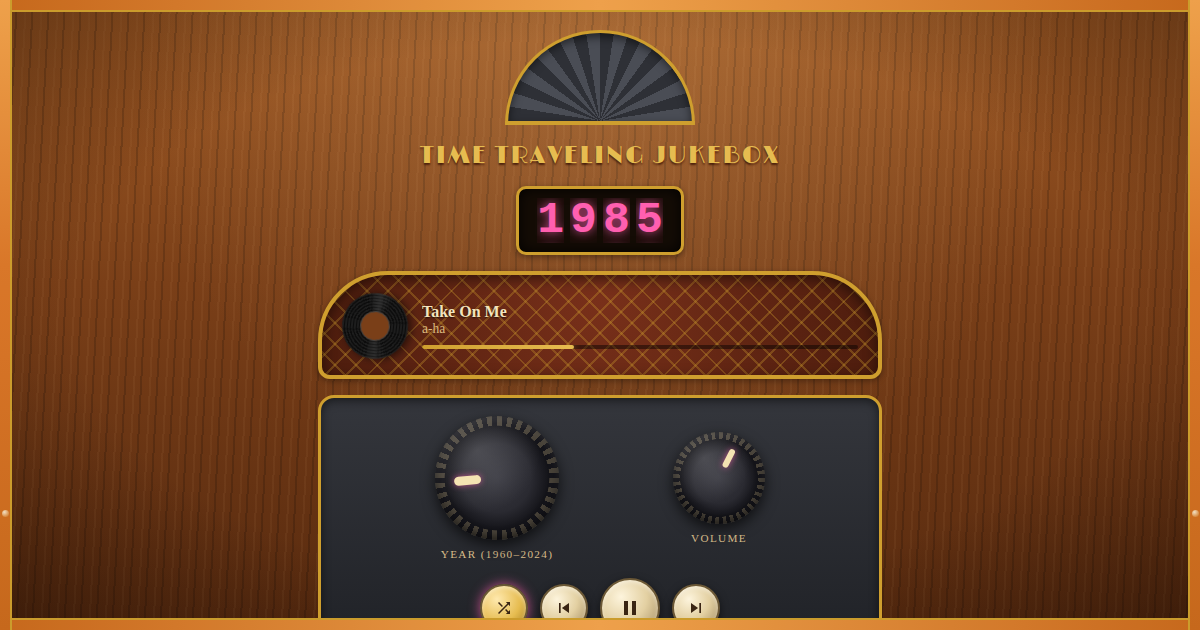
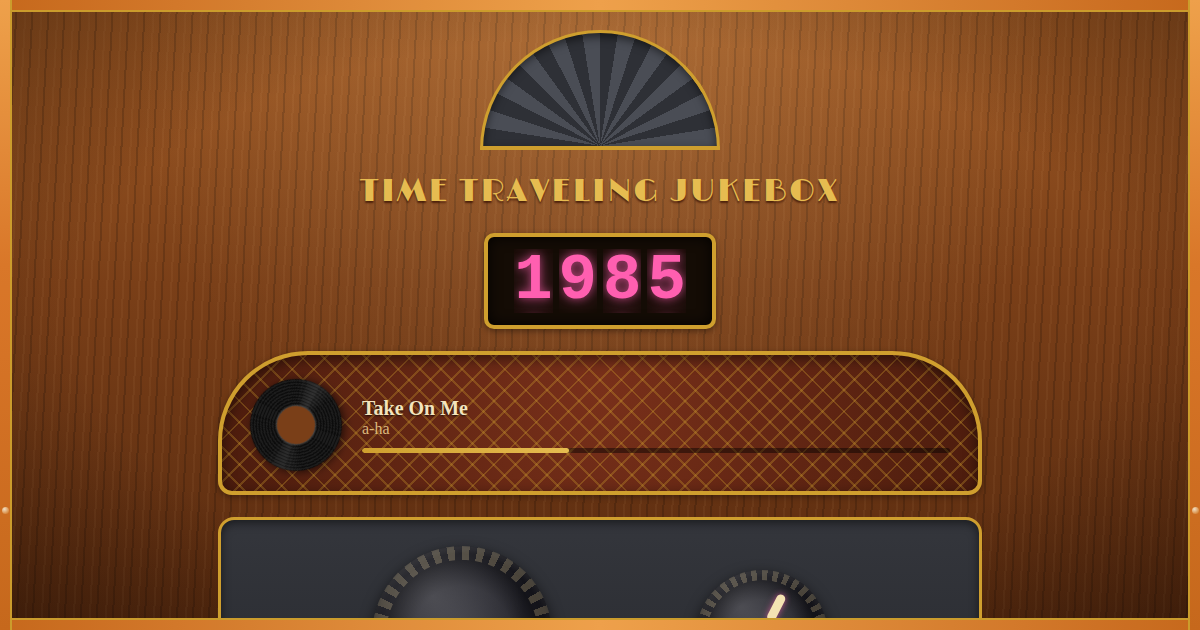
Scale up design elements at desktop widths
- 900px+ media query: larger digits (4rem), grille, marquee, lattice
  window, vinyl, transport buttons, and deck spacing; panel widens to 820px
- Knob sizes are viewport-aware via a matchMedia hook (180px year, 132px
  volume on desktop)

Claude-Session: https://claude.ai/code/session_01BwPvxLJmisKjCTyN5515NZ

Changed region(s): [[0.1542, 0.0603, 0.8325, 0.9952], [0.9867, 0.7841, 1.0, 0.8143]]

diff --git a/web/src/styles.css b/web/src/styles.css
@@ -20,6 +20,7 @@
   --wood-dark: #572a0f;
   --ink: #3a2513;
   --tube-w: 12px;
+  --digit-size: 2.8rem;
 }
 
 html,
@@ -211,9 +212,9 @@ body {
 .year-reel {
   display: inline-block;
   overflow: hidden;
-  height: 2.8rem;
+  height: var(--digit-size);
   font-family: 'Courier New', monospace;
-  font-size: 2.8rem;
+  font-size: var(--digit-size);
   font-weight: 700;
 }
 
@@ -224,8 +225,8 @@ body {
 }
 
 .year-reel-digit {
-  height: 2.8rem;
-  line-height: 2.8rem;
+  height: var(--digit-size);
+  line-height: var(--digit-size);
   min-width: 1ch;
   text-align: center;
   color: var(--accent, var(--amber));
@@ -600,6 +601,105 @@ body {
 
 .transport-btn:not(:disabled):active {
   transform: translateY(1px) scale(0.94);
+}
+
+/* ---- Desktop scale-up: fill the room instead of floating in it ---- */
+
+@media (min-width: 900px) {
+  :root {
+    --digit-size: 4rem;
+  }
+
+  .panel {
+    width: min(820px, 100%);
+    gap: 22px;
+  }
+
+  .grille {
+    width: 240px;
+    height: 120px;
+  }
+
+  .marquee {
+    font-size: 2rem;
+  }
+
+  .year-display {
+    padding: 12px 26px;
+    border-width: 4px;
+  }
+
+  .now-playing {
+    min-height: 140px;
+    padding: 24px 28px 20px;
+    gap: 20px;
+    border-radius: 90px 90px 14px 14px;
+  }
+
+  .now-playing-hint {
+    font-size: 1.05rem;
+  }
+
+  .vinyl {
+    width: 92px;
+    height: 92px;
+  }
+
+  .vinyl-label {
+    width: 40px;
+    height: 40px;
+  }
+
+  .now-playing-track {
+    font-size: 1.25rem;
+  }
+
+  .now-playing-artist {
+    font-size: 1rem;
+  }
+
+  .progress-track {
+    height: 5px;
+    margin-top: 10px;
+  }
+
+  .big-btn {
+    font-size: 1.05rem;
+    padding: 16px 42px;
+  }
+
+  .control-deck {
+    padding: 26px 24px 22px;
+    gap: 24px;
+  }
+
+  .knob-label {
+    font-size: 0.8rem;
+  }
+
+  .transport {
+    gap: 16px;
+  }
+
+  .transport-btn {
+    width: 58px;
+    height: 58px;
+  }
+
+  .transport-btn svg {
+    width: 24px;
+    height: 24px;
+  }
+
+  .transport-btn-play {
+    width: 74px;
+    height: 74px;
+  }
+
+  .transport-btn-play svg {
+    width: 30px;
+    height: 30px;
+  }
 }
 
 /* ---- Accessibility ---- */

diff --git a/web/src/App.tsx b/web/src/App.tsx
@@ -49,6 +49,20 @@ function decadeAccent(year: number): string {
   }
 }
 
+/** True when the viewport is desktop-sized; tracks resizes. */
+function useIsWide(): boolean {
+  const [isWide, setIsWide] = useState(
+    () => window.matchMedia('(min-width: 900px)').matches,
+  );
+  useEffect(() => {
+    const mq = window.matchMedia('(min-width: 900px)');
+    const onChange = (e: MediaQueryListEvent) => setIsWide(e.matches);
+    mq.addEventListener('change', onChange);
+    return () => mq.removeEventListener('change', onChange);
+  }, []);
+  return isWide;
+}
+
 export default function App() {
   const [phase, setPhase] = useState<Phase>('boot');
   const [error, setError] = useState<string | null>(null);
@@ -62,6 +76,7 @@ export default function App() {
   const playerRef = useRef<PlayerHandle | null>(null);
   const shuffleRef = useRef(true);
   shuffleRef.current = shuffleOn;
+  const isWide = useIsWide();
 
   useEffect(() => {
     // ?demo renders the powered-on UI with a fake track — no Spotify calls.
@@ -307,7 +322,7 @@ export default function App() {
                         min={MIN_YEAR}
                         max={MAX_YEAR}
                         degreesPerUnit={16}
-                        size={124}
+                        size={isWide ? 180 : 124}
                         display={String(year)}
                         onChange={setYear}
                         onCommit={handleYearCommit}
@@ -319,7 +334,7 @@ export default function App() {
                         min={0}
                         max={100}
                         degreesPerUnit={2.7}
-                        size={92}
+                        size={isWide ? 132 : 92}
                         display={`${volume}%`}
                         onChange={handleVolumeChange}
                         disabled={phase !== 'on'}
